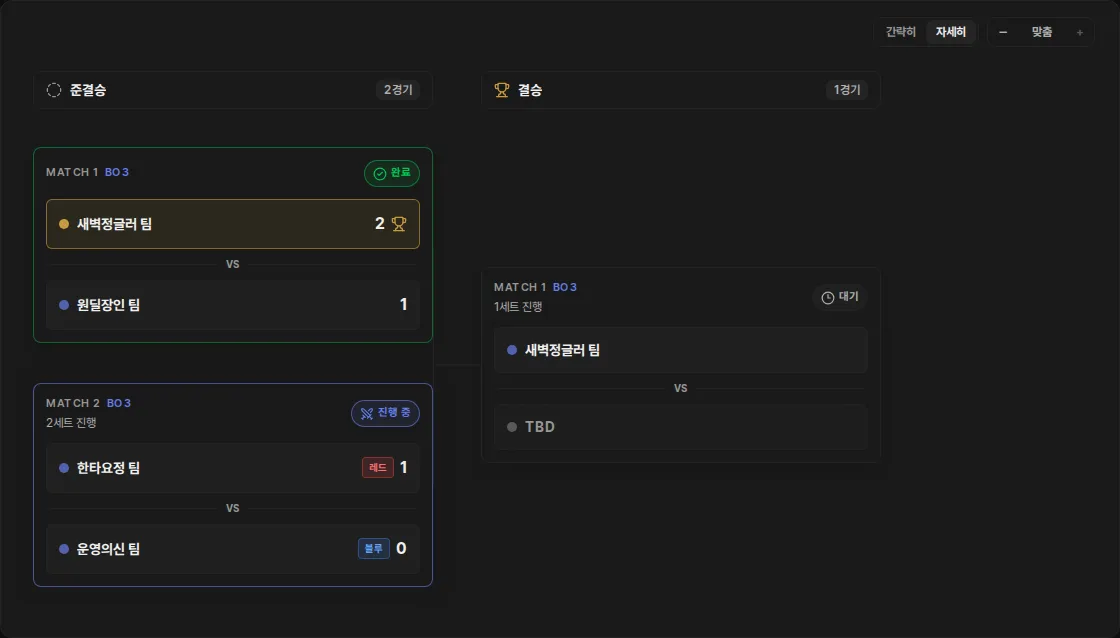
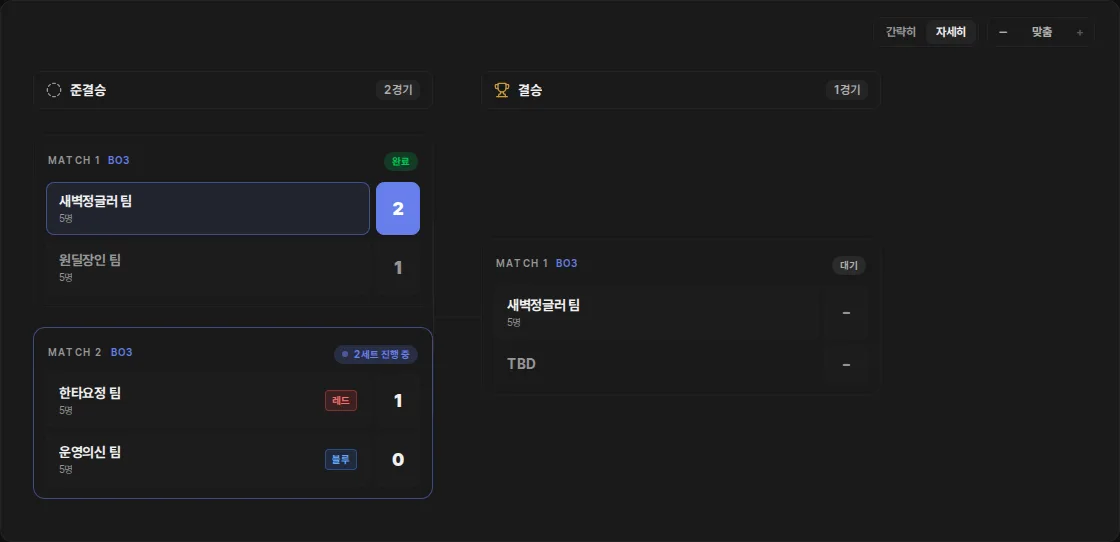
feat(bracket): 경기 카드를 타일형으로 바꾸고 승리 순간 효과 추가
- 자세히 보기 카드: 머리글 한 줄(경기 번호·BO·상태 알약) + 팀·점수 둥근 타일
- 이긴 팀은 사이트 메인색(점수 칸을 채움), 진 팀은 흐리게, 트로피 아이콘 제거
- 보는 중에 승자가 정해지면 빛이 쓸고 지나가고 점수 칸이 튀어 오르며
  WIN 글자가 잠깐 떴다 사라진다 (새로 열 때는 재생 안 함, 동작 줄이기 설정 존중)
- 팀장 이름이 팀 이름과 겹쳐 대신 인원수 표시, 칸 높이 184px 로 맞춤
- 미리보기에 준결승 끝내기 버튼, 가이드 대진표 캡처 교체

diff --git a/apps/web/src/components/domain/BracketView.tsx b/apps/web/src/components/domain/BracketView.tsx
@@ -82,9 +82,9 @@ type Density = "compact" | "detailed";
 
 /** 밀도별 카드 치수 — 트리 정렬 여백 계산이 이 값에 묶여 있다. */
 const DENSITY = {
-  // 상세 카드 높이는 약 200px(세트 진행 줄이 붙으면 210px). 칸 높이를 카드보다
-  // 조금만 크게 잡아야 위아래로 흩어지지 않는다 — 예전 420px 은 카드 사이가 240px 씩 비었다.
-  detailed: { card: "w-[320px] md:w-[400px]", slotGap: 232, minColumn: 240 },
+  // 상세 카드(타일형) 높이는 약 150~170px. 칸 높이를 카드보다 조금만 크게 잡아야
+  // 위아래로 흩어지지 않는다 — 예전 420px 은 카드 사이가 240px 씩 비었다.
+  detailed: { card: "w-[320px] md:w-[400px]", slotGap: 184, minColumn: 200 },
   compact: { card: "w-[208px] md:w-[232px]", slotGap: 104, minColumn: 120 },
 } as const;
 
@@ -186,7 +186,7 @@ function TeamSlot({
         "rounded-md border transition-colors",
         compact ? "px-2 py-1" : "px-3 py-3",
         isWinner
-          ? "border-accent-gold/60 bg-accent-gold/10"
+          ? "border-accent-primary/50 bg-accent-primary/10"
           : team
             ? "border-bg-tertiary bg-bg-tertiary/70"
             : "border-dashed border-bg-tertiary bg-bg-tertiary/30",
@@ -198,7 +198,7 @@ function TeamSlot({
             className={cn(
               "h-2.5 w-2.5 shrink-0 rounded-full",
               isWinner
-                ? "bg-accent-gold"
+                ? "bg-accent-primary"
                 : team
                   ? "bg-accent-primary/70"
                   : "bg-text-tertiary/50",
@@ -226,14 +226,6 @@ function TeamSlot({
               {team.score}
             </span>
           )}
-          {isWinner && (
-            <Trophy
-              className={cn(
-                "text-accent-gold",
-                compact ? "h-3 w-3" : "h-4 w-4",
-              )}
-            />
-          )}
         </div>
       </div>
     </div>
@@ -257,6 +249,20 @@ function MatchCard({
   const compact = density === "compact";
   // 끝난 대진엔 진영을 안 보인다 — 마지막 세트 진영만 남아 있어 오해를 부른다.
   const sideBlueId = match.status === "COMPLETED" ? null : match.blueSideTeamId;
+
+  // 이긴 팀이 정해진 뒤에만 진 팀을 흐리게 한다
+  const winnerId = match.winner?.id;
+
+  // 승리 효과는 "보고 있는 중에 승자가 정해진 순간"에만 재생한다.
+  // 페이지를 새로 열 때 끝난 경기들이 한꺼번에 반짝이지 않게, 이전 렌더의
+  // 승자를 기억해 두고 없음 → 있음으로 바뀔 때만 켠다 (렌더 중 상태 갱신 패턴).
+  // 훅이라 컴팩트 분기보다 먼저 부른다.
+  const [prevWinnerId, setPrevWinnerId] = React.useState(winnerId);
+  const [celebrate, setCelebrate] = React.useState(false);
+  if (prevWinnerId !== winnerId) {
+    setPrevWinnerId(winnerId);
+    setCelebrate(!prevWinnerId && !!winnerId);
+  }
 
   // 컴팩트는 한 줄 머리글 + 팀 두 줄만 남긴다. 나머지 정보(섹션명·세트 진행·
   // 예정 시각)는 카드를 열면 볼 수 있으므로 여기서는 접는다.
@@ -307,71 +313,164 @@ function MatchCard({
       ref={innerRef}
       type="button"
       className={cn(
-        "group relative shrink-0 rounded-lg border bg-bg-secondary/95 p-3 text-left shadow-lg shadow-black/10 transition-all hover:-translate-y-0.5 hover:border-accent-primary/70 hover:shadow-xl",
+        "group relative shrink-0 rounded-xl border bg-bg-secondary p-3 text-left transition-colors hover:border-accent-primary/70",
         DENSITY.detailed.card,
-        status.cardClassName,
+        match.status === "IN_PROGRESS"
+          ? "border-accent-primary/50"
+          : "border-bg-elevated/40",
       )}
       onClick={() => onMatchClick(match)}
       title="클릭해 매치 상세 열기 (라인업·진영 결정·결과 보고)"
     >
-      <div className="mb-3 flex items-center justify-between gap-3">
-        <div className="min-w-0">
-          <p className="text-[11px] font-semibold uppercase tracking-wider text-text-tertiary">
-            Match {match.matchNumber}
-            {/* 다전제면 시리즈 길이를 함께 보여준다 */}
-            {(match.bestOf ?? 1) > 1 && (
-              <span className="ml-1.5 text-accent-primary">
-                BO{match.bestOf}
-              </span>
-            )}
-          </p>
-          {match.bracketSection && (
-            <p className="mt-0.5 truncate text-xs text-text-secondary">
-              {SECTION_LABELS[match.bracketSection] || match.bracketSection}
-            </p>
-          )}
-          {(match.bestOf ?? 1) > 1 && match.status !== "COMPLETED" && (
-            <p className="mt-0.5 text-xs text-text-secondary">
-              {match.currentGameNumber ?? 1}세트 진행
-            </p>
-          )}
-        </div>
-        <span
-          className={cn(
-            "inline-flex shrink-0 items-center gap-1 rounded-full border px-2 py-1 text-[11px] font-bold",
-            status.className,
-          )}
-        >
-          {status.icon}
-          {status.label}
+      {/* 머리글 한 줄 — 경기 번호·다전제 길이·상태 알약 */}
+      <div className="mb-2.5 flex items-center gap-2 px-0.5">
+        <span className="text-[10px] font-semibold uppercase tracking-[0.1em] text-text-tertiary">
+          Match {match.matchNumber}
+        </span>
+        {(match.bestOf ?? 1) > 1 && (
+          <span className="text-[10px] font-semibold text-accent-primary">
+            BO{match.bestOf}
+          </span>
+        )}
+        <span className="ml-auto">
+          <MatchStatusBadge match={match} />
         </span>
       </div>
 
-      <div className="space-y-2">
-        <TeamSlot
+      <div className="space-y-1.5">
+        <TeamTile
           team={match.team1}
-          isWinner={!!match.winner && match.winner.id === match.team1?.id}
+          isWinner={!!winnerId && winnerId === match.team1?.id}
+          isLoser={!!winnerId && winnerId !== match.team1?.id}
+          celebrate={celebrate}
           side={getTeamSide(sideBlueId, match.team1)}
         />
-        <div className="flex items-center gap-2 px-1">
-          <div className="h-px flex-1 bg-bg-tertiary" />
-          <span className="text-[10px] font-bold text-text-tertiary">VS</span>
-          <div className="h-px flex-1 bg-bg-tertiary" />
-        </div>
-        <TeamSlot
+        <TeamTile
           team={match.team2}
-          isWinner={!!match.winner && match.winner.id === match.team2?.id}
+          isWinner={!!winnerId && winnerId === match.team2?.id}
+          isLoser={!!winnerId && winnerId !== match.team2?.id}
+          celebrate={celebrate}
           side={getTeamSide(sideBlueId, match.team2)}
         />
       </div>
 
       {match.scheduledTime && match.status === "PENDING" && (
-        <div className="mt-3 flex items-center justify-center gap-1.5 text-xs text-text-secondary">
+        <div className="mt-2.5 flex items-center justify-center gap-1.5 text-xs text-text-secondary">
           <Clock3 className="h-3.5 w-3.5" />
           {new Date(match.scheduledTime).toLocaleString("ko-KR")}
         </div>
       )}
     </button>
+  );
+}
+
+/**
+ * 상세 카드의 상태 알약 — 사이트 공용 Badge 와 같은 모양.
+ * 진행 중인 다전제는 몇 세트째인지 알약 안에 함께 쓴다.
+ */
+function MatchStatusBadge({ match }: { match: Match }) {
+  const base =
+    "inline-flex items-center gap-1.5 rounded-full px-2 py-0.5 text-[10px] font-bold";
+  if (match.status === "IN_PROGRESS") {
+    return (
+      <span className={cn(base, "bg-accent-primary/20 text-accent-primary")}>
+        <span className="h-1.5 w-1.5 animate-pulse rounded-full bg-accent-primary" />
+        {(match.bestOf ?? 1) > 1
+          ? `${match.currentGameNumber ?? 1}세트 진행 중`
+          : "진행 중"}
+      </span>
+    );
+  }
+  if (match.status === "COMPLETED") {
+    return (
+      <span className={cn(base, "bg-accent-success/20 text-accent-success")}>
+        완료
+      </span>
+    );
+  }
+  return (
+    <span className={cn(base, "bg-bg-elevated text-text-secondary")}>대기</span>
+  );
+}
+
+/**
+ * 상세 카드의 팀 한 줄 — 방 카드 안쪽 정보 칸처럼 둥근 타일 두 개(팀 · 점수).
+ * 이긴 팀은 사이트 메인색(점수 칸을 꽉 채움), 진 팀은 글자를 흐리게, 빈 자리(TBD)는 점선.
+ *
+ * celebrate 가 켜지면(보는 중에 승자가 정해진 순간) 이긴 팀 타일에 빛이 한 번
+ * 쓸고 지나가고, 점수 칸이 튀어 오르며, "WIN" 글자가 잠깐 떴다 사라진다.
+ * 트로피 아이콘은 두지 않는다. 키프레임은 globals.css.
+ */
+function TeamTile({
+  team,
+  isWinner,
+  isLoser,
+  celebrate = false,
+  side,
+}: {
+  team?: Team;
+  isWinner: boolean;
+  isLoser: boolean;
+  celebrate?: boolean;
+  side: "blue" | "red" | null;
+}) {
+  const memberCount = team?.members?.length ?? 0;
+  const dim = !team || isLoser;
+  const play = celebrate && isWinner;
+  return (
+    <div className="flex items-stretch gap-1.5">
+      <div
+        className={cn(
+          "relative flex min-w-0 flex-1 items-center gap-2 overflow-hidden rounded-lg border px-3 py-2 transition-colors duration-500",
+          isWinner
+            ? "border-accent-primary/50 bg-accent-primary/10"
+            : team
+              ? "border-bg-elevated/30 bg-bg-elevated/20"
+              : "border-dashed border-bg-elevated/40",
+        )}
+      >
+        {/* 승리 순간 한 번 쓸고 지나가는 빛 */}
+        {play && (
+          <span className="bracket-win-shine pointer-events-none absolute inset-y-0 -left-1/2 w-1/2" />
+        )}
+        <div className="min-w-0 flex-1">
+          <p
+            className={cn(
+              "truncate text-sm font-bold tracking-[-0.02em] transition-colors duration-500",
+              dim ? "text-text-tertiary" : "text-text-primary",
+            )}
+          >
+            {getTeamDisplayName(team)}
+          </p>
+          {/* 팀 이름이 이미 "팀장 팀"이라 팀장 대신 인원수를 붙인다 */}
+          {memberCount > 0 && (
+            <p className="truncate text-[10px] text-text-tertiary">
+              {memberCount}명
+            </p>
+          )}
+        </div>
+        <SideTag side={side} />
+        {/* 승리 순간 잠깐 떴다 사라지는 WIN 글자 — 평소엔 점수 칸 색만으로 승리를 보인다 */}
+        {play && (
+          <span className="bracket-win-flash pointer-events-none absolute right-3 top-1/2 text-base font-black italic tracking-[0.12em] text-accent-primary">
+            WIN
+          </span>
+        )}
+      </div>
+      {/* 점수 타일 — 아직 점수가 없으면 대시 */}
+      <div
+        className={cn(
+          "flex w-11 shrink-0 items-center justify-center rounded-lg border text-lg font-black tabular-nums transition-colors duration-500",
+          isWinner
+            ? "border-accent-primary bg-accent-primary text-accent-on"
+            : "border-bg-elevated/30 bg-bg-elevated/20",
+          !isWinner && (dim ? "text-text-tertiary" : "text-text-primary"),
+          play && "bracket-win-pop",
+        )}
+      >
+        {team?.score ?? <span className="text-sm text-text-tertiary">–</span>}
+      </div>
+    </div>
   );
 }
 

diff --git a/apps/web/src/app/dev/bracket/page.tsx b/apps/web/src/app/dev/bracket/page.tsx
@@ -6,6 +6,7 @@
 // 실제 대진표는 로그인 + 팀 구성이 끝난 방이 있어야 보여서, 같은 BracketView 에
 // 가짜 대진을 넣어 그린다. 가이드(경기 진행) 캡처에도 쓴다.
 
+import { useState } from "react";
 import { BracketView, type Match } from "@/components/domain/BracketView";
 
 // 팀장 닉네임 — 실제 화면처럼 "OO 팀" 으로 보이게 한다
@@ -18,6 +19,11 @@ const TEAMS = [
   id: t.id,
   name: t.name,
   captain: { id: `${t.id}-c`, username: t.captain },
+  // 카드의 인원수 표시용 — 5인 팀
+  members: Array.from({ length: 5 }, (_, i) => ({
+    id: `${t.id}-m${i}`,
+    username: `${t.captain}${i}`,
+  })),
 }));
 
 const MATCHES: Match[] = [
@@ -57,11 +63,48 @@ const MATCHES: Match[] = [
   },
 ];
 
+/** 준결승 2 를 한타요정 팀 2:0 승리로 끝낸 대진 — 승리 효과 확인용 */
+function finishSemi2(matches: Match[]): Match[] {
+  return matches.map((m) => {
+    if (m.id === "m2")
+      return {
+        ...m,
+        status: "COMPLETED",
+        team1: { ...TEAMS[2], score: 2 },
+        winner: TEAMS[2],
+      };
+    if (m.id === "m3") return { ...m, team2: TEAMS[2] };
+    return m;
+  });
+}
+
 export default function BracketPreviewPage() {
+  // "준결승 2 끝내기" 를 누르면 보는 중에 승자가 정해지는 상황이 된다
+  const [finished, setFinished] = useState(false);
   return (
     <div className="container mx-auto max-w-6xl px-4 py-8">
+      <div className="mb-4 flex gap-2">
+        <button
+          type="button"
+          className="rounded-lg bg-accent-primary px-4 py-2 text-sm font-bold text-accent-on"
+          onClick={() => setFinished(true)}
+        >
+          준결승 2 끝내기
+        </button>
+        <button
+          type="button"
+          className="rounded-lg bg-bg-tertiary px-4 py-2 text-sm font-bold text-text-primary"
+          onClick={() => setFinished(false)}
+        >
+          되돌리기
+        </button>
+      </div>
       <div className="rounded-xl border border-bg-tertiary bg-bg-secondary p-4">
-        <BracketView matches={MATCHES} rounds={2} onMatchClick={() => {}} />
+        <BracketView
+          matches={finished ? finishSemi2(MATCHES) : MATCHES}
+          rounds={2}
+          onMatchClick={() => {}}
+        />
       </div>
     </div>
   );

diff --git a/apps/web/src/app/globals.css b/apps/web/src/app/globals.css
@@ -974,3 +974,36 @@ body.landing-scroll {
 body.scroll-locked {
   overflow: hidden !important;
 }
+
+/* 대진표 — 보는 중에 승자가 정해진 순간의 효과 (BracketView TeamTile) */
+@keyframes bracket-win-shine {
+  from { transform: translateX(0); }
+  to { transform: translateX(400%); }
+}
+@keyframes bracket-win-pop {
+  0% { transform: scale(0.6); opacity: 0; }
+  100% { transform: scale(1); opacity: 1; }
+}
+.bracket-win-shine {
+  background: linear-gradient(100deg, transparent, rgb(var(--color-accent-primary) / 0.35), transparent);
+  animation: bracket-win-shine 0.9s ease-out 0.15s both;
+}
+.bracket-win-pop {
+  animation: bracket-win-pop 0.45s cubic-bezier(0.34, 1.56, 0.64, 1) both;
+}
+/* WIN 글자: 튀어나와 1초쯤 머물다 위로 살짝 떠오르며 사라진다 */
+@keyframes bracket-win-flash {
+  0% { transform: translateY(-50%) scale(0.6); opacity: 0; }
+  15% { transform: translateY(-50%) scale(1.15); opacity: 1; }
+  25% { transform: translateY(-50%) scale(1); opacity: 1; }
+  80% { transform: translateY(-50%) scale(1); opacity: 1; }
+  100% { transform: translateY(-80%) scale(1); opacity: 0; }
+}
+.bracket-win-flash {
+  animation: bracket-win-flash 1.8s ease-out 0.2s both;
+}
+@media (prefers-reduced-motion: reduce) {
+  .bracket-win-shine, .bracket-win-pop, .bracket-win-flash { animation: none; }
+  /* 움직임을 줄인 환경에서는 WIN 을 띄우지 않는다 */
+  .bracket-win-flash { opacity: 0; }
+}

diff --git a/apps/web/src/app/[game]/guide/match-flow/page.tsx b/apps/web/src/app/[game]/guide/match-flow/page.tsx
@@ -59,7 +59,7 @@ function LolMatchFlowGuidePage() {
             src="/images/guide/bracket.webp"
             alt="4팀 단일 엘리미네이션 대진표. 준결승 두 경기와 결승이 이어져 있고, 끝난 경기는 이긴 팀에 트로피, 진행 중인 경기는 세트 번호와 블루·레드 진영이 표시된다"
             width={1120}
-            height={638}
+            height={542}
             caption="대진표 — 경기 카드마다 다전제 길이(BO3)와 상태(대기·진행 중·완료)가 붙고, 진영이 정해지면 팀 옆에 블루·레드가 표시됩니다. 경기 카드를 누르면 진영 정하기·시작·결과 입력 창이 열립니다."
           />
         </div>
